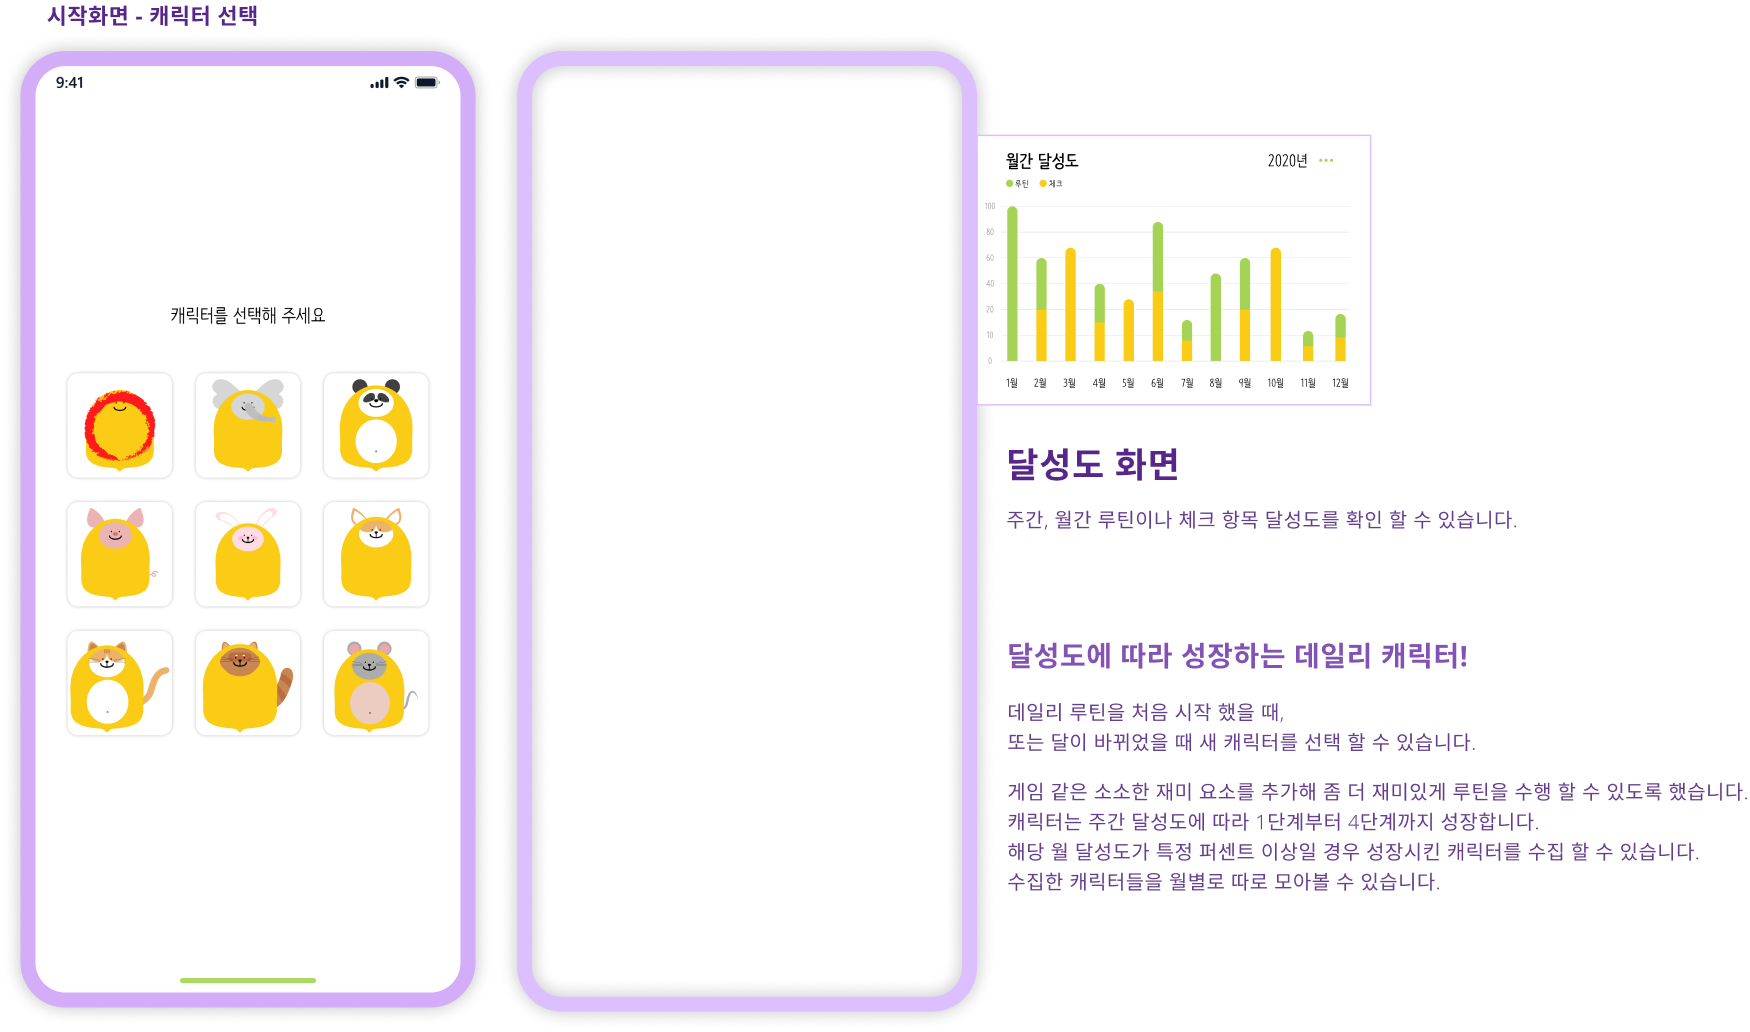
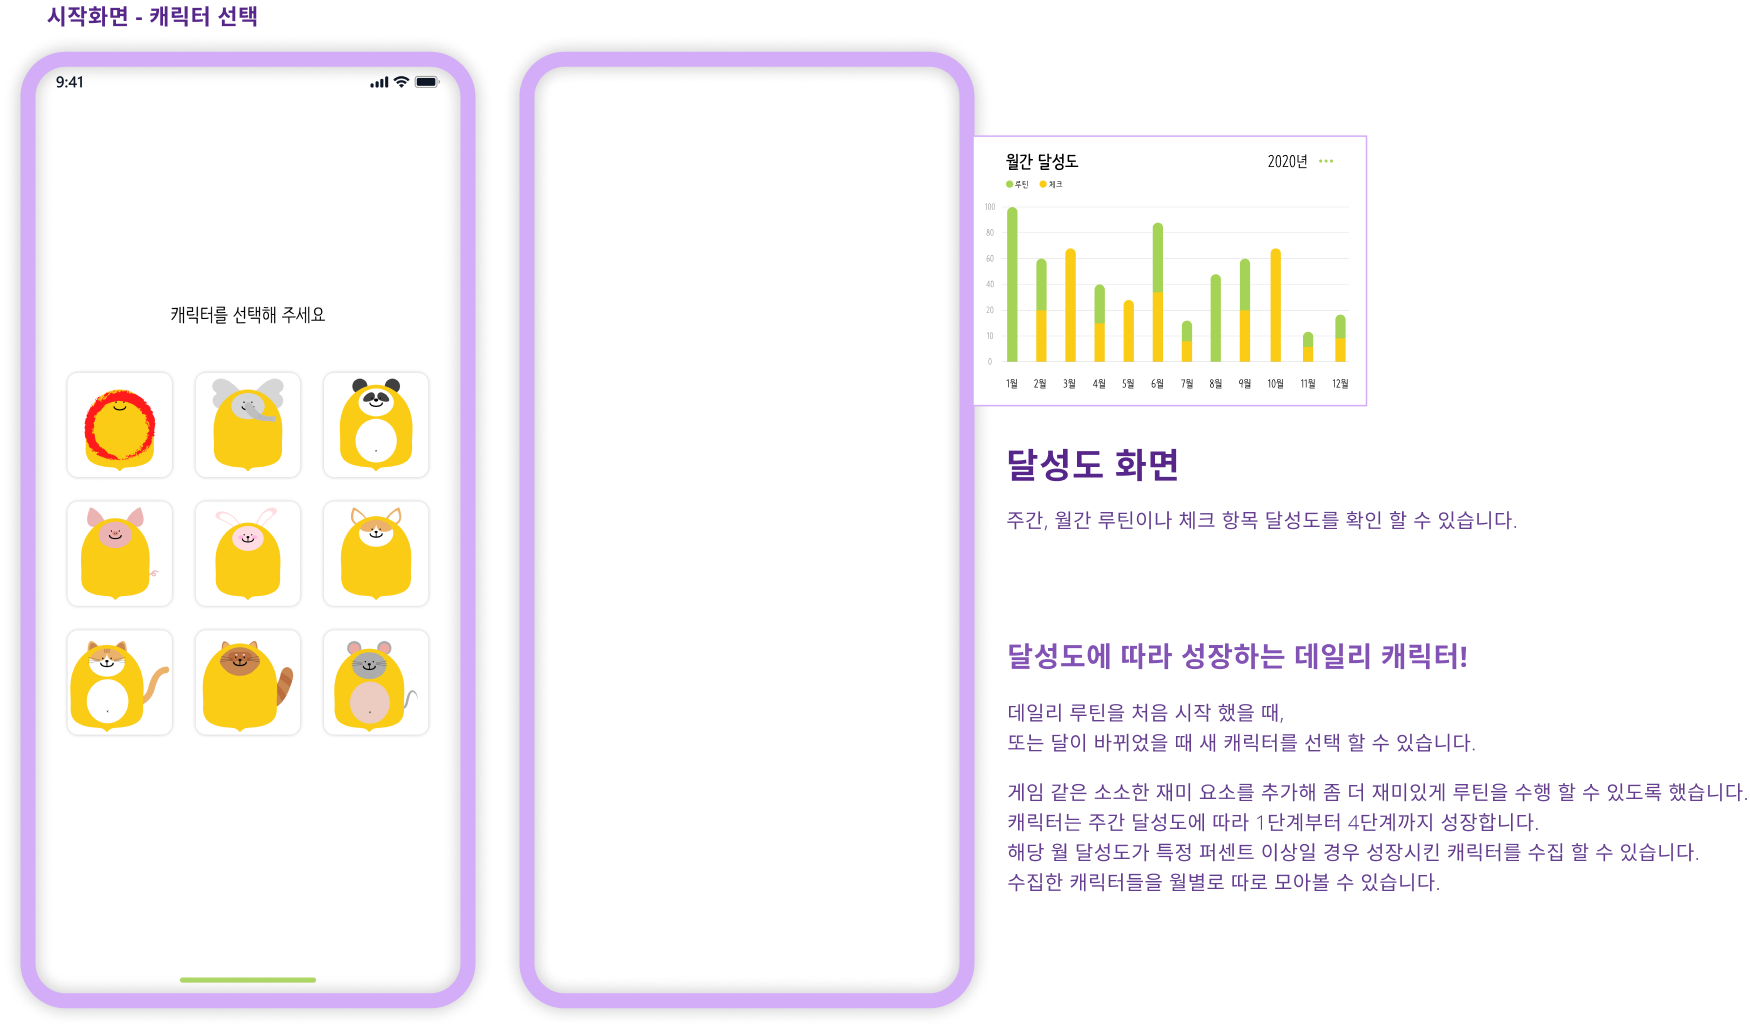
달성도

diff --git a/docs/pf/work1/index.css b/docs/pf/work1/index.css
@@ -634,9 +634,9 @@ video {
 }
 
 .mp4_6 {
-  width: 427px;
-  top: 62px;
-  left: 534px;
+  width: 424px;
+  top: 63px;
+  left: 535px;
 }
 
 .mp4_7 {
